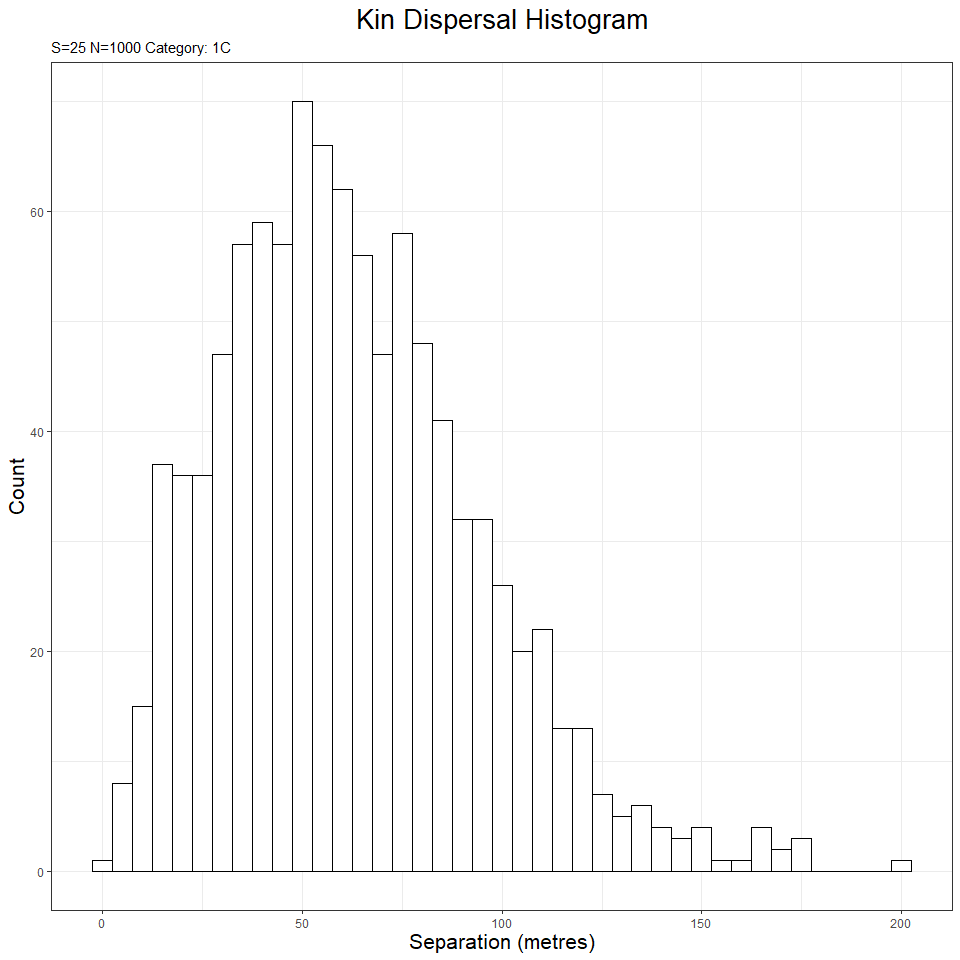
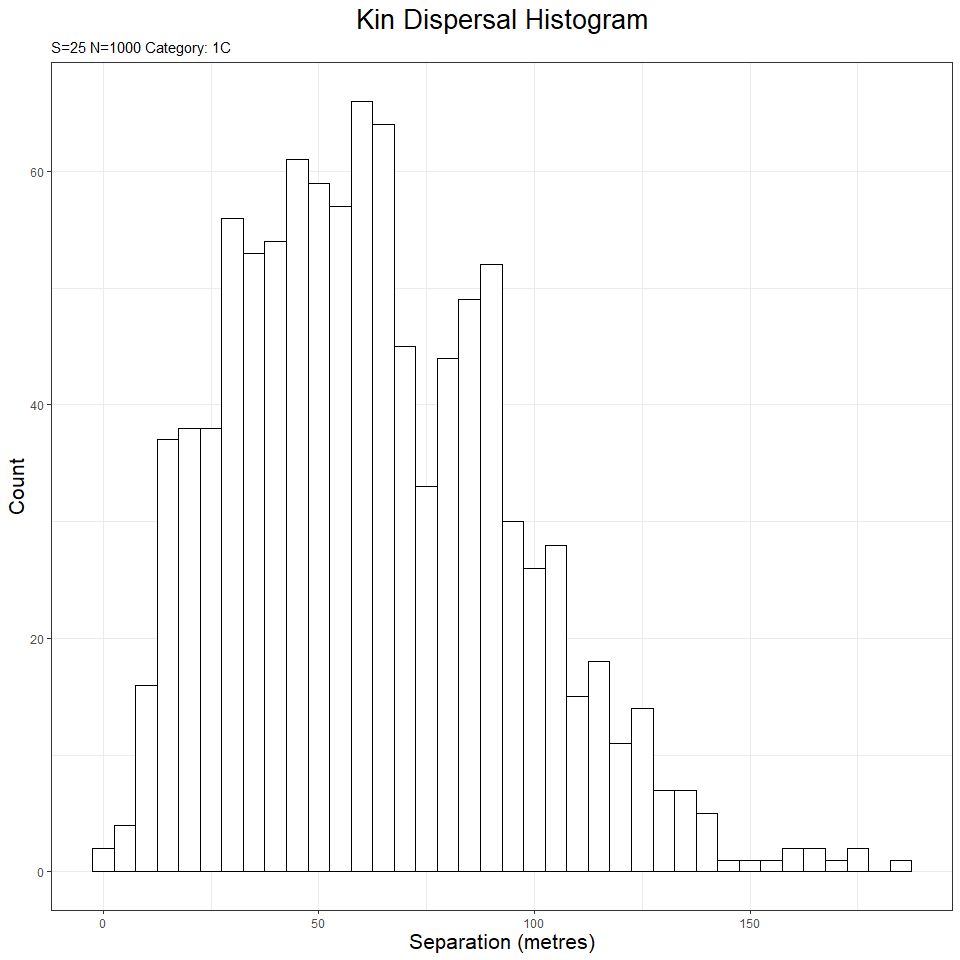
iterated version number and updated documentation & vignettes - fully implemented 'using-kindisperse' vignette

diff --git a/README.md b/README.md
@@ -1,4 +1,4 @@
-KINDISPERSE 0.8.5
+KINDISPERSE 0.9.0
 ================
 
 -   [1. Introduction](#1-introduction)
@@ -27,7 +27,7 @@ pest management operations, and evaluating conservation strategies for
 threatened species.
 
 Assessing the dispersal of small, abundant and short-lived animals such
-as insects as traditionally been more difficult than for animals that
+as insects has traditionally been more difficult than for animals that
 can be easily tagged. Responding to this challenge, researchers have
 developed various methods based around mark-release-recapture that mark
 the organisms with dyes, paint, or chemical tags, before releasing the
@@ -167,7 +167,7 @@ Once installed, load the package as follows:
 
 ``` r
 library(kindisperse)
-#> kindisperse 0.8.5
+#> kindisperse 0.9.0
 ```
 
 # 3. The shiny app
@@ -313,13 +313,13 @@ simulate_kindist_simple(nsims = 5, sigma = 100, method = "Gaussian", kinship = "
 #> 
 #> tab
 #> # A tibble: 5 x 8
-#>   id1   id2   kinship distance    x1    y1    x2    y2
-#>   <chr> <chr> <chr>      <dbl> <dbl> <dbl> <dbl> <dbl>
-#> 1 1a    1b    PO          66.3 16.8   10.2  55.2  64.2
-#> 2 2a    2b    PO         185.  57.5   19.2 -34.9 179. 
-#> 3 3a    3b    PO         154.  91.8   34.9  29.6 176. 
-#> 4 4a    4b    PO          45.9 32.2   65.0  53.9  24.6
-#> 5 5a    5b    PO          38.5  3.16  91.1 -16.3  57.9
+#>   id1   id2   kinship distance    x1    y1    x2     y2
+#>   <chr> <chr> <chr>      <dbl> <dbl> <dbl> <dbl>  <dbl>
+#> 1 1a    1b    PO         191.   48.0  7.37 -93.9 -121. 
+#> 2 2a    2b    PO          94.1  21.7 16.7   96.4   74.0
+#> 3 3a    3b    PO         173.   21.4 81.5  166.   175. 
+#> 4 4a    4b    PO          84.5  37.3 73.2  -39.0   36.8
+#> 5 5a    5b    PO         157.   69.4 84.3  -49.7  186. 
 #> -----------------------------------
 ```
 
@@ -365,13 +365,13 @@ simulate_kindist_composite(nsims = 5, initsigma = 50, breedsigma = 30, gravsigma
 #> 
 #> tab
 #> # A tibble: 5 x 8
-#>   id1   id2   kinship distance      x1     y1    x2    y2
-#>   <chr> <chr> <chr>      <dbl>   <dbl>  <dbl> <dbl> <dbl>
-#> 1 1a    1b    H1C        426.  -267.   -307.  -11.3  33.8
-#> 2 2a    2b    H1C        272.     2.74  -97.7 127.  144. 
-#> 3 3a    3b    H1C         79.0  108.     43.3 160.  103. 
-#> 4 4a    4b    H1C        208.    90.4    97.2 -77.4 -25.6
-#> 5 5a    5b    H1C        141.   147.    -28.5  85.7  98.5
+#>   id1   id2   kinship distance    x1     y1     x2     y2
+#>   <chr> <chr> <chr>      <dbl> <dbl>  <dbl>  <dbl>  <dbl>
+#> 1 1a    1b    H1C         78.1 -47.1   61.5 -53.9   139. 
+#> 2 2a    2b    H1C        260.  197.   216.  -46.5   127. 
+#> 3 3a    3b    H1C        378.  159.   234.   19.9  -117. 
+#> 4 4a    4b    H1C         55.5  70.3 -118.   34.1   -75.7
+#> 5 5a    5b    H1C        193.  149.   248.    8.52  117. 
 #> -----------------------------------
 ```
 
@@ -413,18 +413,18 @@ sample_kindist(compsim, upper = 1000, lower = 200, spacing = 50, n = 25)
 #> 
 #> tab
 #> # A tibble: 25 x 8
-#>    id1    id2    kinship distance      x1     y1      x2     y2
-#>    <chr>  <chr>  <chr>      <dbl>   <dbl>  <dbl>   <dbl>  <dbl>
-#>  1 50020a 50020b H2C          375  133.    101.    47.9  -267. 
-#>  2 10402a 10402b H2C          325  129.   -317.   -59.4   -30.3
-#>  3 40279a 40279b H2C          275   -1.06   91.0    9.35 -182. 
-#>  4 34833a 34833b H2C          225  -32.4    50.5 -253.     80.8
-#>  5 48186a 48186b H2C          325 -360.     55.2  -66.5   162. 
-#>  6 76016a 76016b H2C          325  288.    -20.1   98.9  -284. 
-#>  7 68910a 68910b H2C          425 -135.    -51.2  -74.7   378. 
-#>  8 29765a 29765b H2C          625   48.9   516.  -119.   -104. 
-#>  9 51345a 51345b H2C          225  -38.7   151.   120.    280. 
-#> 10 85941a 85941b H2C          625 -249.     93.3  392.    115. 
+#>    id1    id2    kinship distance     x1     y1      x2     y2
+#>    <chr>  <chr>  <chr>      <dbl>  <dbl>  <dbl>   <dbl>  <dbl>
+#>  1 93454a 93454b H2C          375   88.1  -86.7   12.3  -475. 
+#>  2 60785a 60785b H2C          575 -197.   326.    76.2  -153. 
+#>  3 40178a 40178b H2C          475  132.   -13.8 -349.    -10.7
+#>  4 99618a 99618b H2C          325 -131.   -20.3  175.    120. 
+#>  5 37378a 37378b H2C          325  -53.3  302.  -147.     13.2
+#>  6 42475a 42475b H2C          525  179.   -54.3 -303.   -280. 
+#>  7 65603a 65603b H2C          325  134.  -327.   -13.8   -46.7
+#>  8 57019a 57019b H2C          525 -228.  -177.     9.41  274. 
+#>  9 17276a 17276b H2C          225  -65.3  207.   101.     88.6
+#> 10 19745a 19745b H2C          225   10.4 -129.   196.   -204. 
 #> # ... with 15 more rows
 #> -----------------------------------
 ```
@@ -519,13 +519,13 @@ of three draws from the PO distribution, and thus would take
 ``` r
 paroff <- simulate_kindist_simple(nsims = 1000, sigma = 75, kinship = "PO")
 axials(paroff)
-#> [1] 72.62168
+#> [1] 76.58162
 ```
 
 ``` r
 fullsibs <- simulate_kindist_composite(nsims = 10000, ovisigma = 25, kinship = "FS")
 axials(fullsibs, composite = 2)
-#> [1] 24.92463
+#> [1] 25.19967
 ```
 
 Various auxillary functions exist to further manipulate axial distances
@@ -609,7 +609,7 @@ fullcous <- simulate_kindist_composite(nsims = 75, initsigma = init, breedsigma 
 
 axpermute_standard(fullcous, fullsibs)
 #>      2.5%      mean     97.5% 
-#>  82.41805  92.57631 101.92093
+#>  81.61241  94.75184 107.61425
 ```
 
 As we can see, the C.I. neatly brackets the actual axial value, though
@@ -638,18 +638,18 @@ cousins
 #> 
 #> tab
 #> # A tibble: 150 x 9
-#>    id1   id2   kinship distance     x1     y1     x2    y2 lifestage
-#>    <chr> <chr> <chr>      <dbl>  <dbl>  <dbl>  <dbl> <dbl> <chr>    
-#>  1 1a    1b    UN          91.9  -4.09  -4.00   44.9 -81.8 immature 
-#>  2 2a    2b    UN          94.2  81.4   44.1   -12.8  43.5 immature 
-#>  3 3a    3b    UN         188.  202.    17.7   150.  199.  immature 
-#>  4 4a    4b    UN         273.  104.    14.7  -160.   83.7 immature 
-#>  5 5a    5b    UN         271.  -63.5   52.3   170.  -85.8 immature 
-#>  6 6a    6b    UN         218.  -45.2  289.   -137.   91.0 immature 
-#>  7 7a    7b    UN         203.  179.   174.    -14.9 116.  immature 
-#>  8 8a    8b    UN         154.  170.   -17.9   234.  122.  immature 
-#>  9 9a    9b    UN         106.   52.9  156.    110.   66.0 immature 
-#> 10 10a   10b   UN          10.6  33.4   86.8    38.2  77.3 immature 
+#>    id1   id2   kinship distance     x1    y1     x2      y2 lifestage
+#>    <chr> <chr> <chr>      <dbl>  <dbl> <dbl>  <dbl>   <dbl> <chr>    
+#>  1 1a    1b    UN          69.9   73.7 162.    4.34  170.   immature 
+#>  2 2a    2b    UN         162.    19.7 141.   91.0    -4.87 immature 
+#>  3 3a    3b    UN         199.    45.7 -81.9  -3.02  111.   immature 
+#>  4 4a    4b    UN         156.    12.7  25.9 143.    112.   immature 
+#>  5 5a    5b    UN         143.   150.   15.3 111.    153.   immature 
+#>  6 6a    6b    UN         224.   -27.1  14.2 173.    115.   immature 
+#>  7 7a    7b    UN          36.2  -37.5 157.   -6.08  139.   immature 
+#>  8 8a    8b    UN         322.  -109.   72.4 161.    246.   immature 
+#>  9 9a    9b    UN          63.7   53.1  98.3  34.8    37.2  immature 
+#> 10 10a   10b   UN         298.   100.   39.7 -75.1  -201.   immature 
 #> # ... with 140 more rows
 #> -------------------------------
 ```
@@ -664,8 +664,8 @@ missing category data:
 # bcomp allows supply of distribution to composite with bvect (this is done to match 
 # the cousin mixture in phase)
 axpermute_standard(avect = cousins, acat = "1C", amix = TRUE, amixcat = "H1C", bvect = fullsibs, bcomp = TRUE, bcompvect = halfsibs)
-#>     2.5%     mean    97.5% 
-#> 78.98379 89.04028 99.08329
+#>      2.5%      mean     97.5% 
+#>  86.02991  98.83759 111.15583
 ```
 
 This estimate is a lot more convoluted, and not as ‘spot on’- but the
